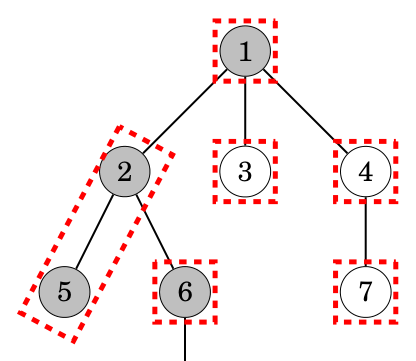
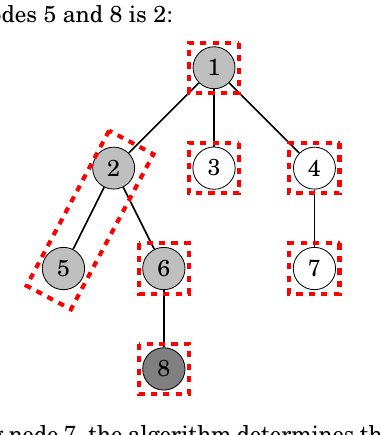
cp_handbook: fix LCA trees (p182) + Grundy state graphs (p249)
Six more figures were missing nodes or contained duplicates — same
root cause as previous rounds (PyMuPDF drawing-cluster merge radius
too small for figures with isolated nodes).

LCA offline-algorithm trees (ch18 §Offline algorithms, p182):
  fig_p182_088: was missing node 8 — now shows all 8 nodes, before
                algorithm starts
  fig_p182_089: was missing node 8 — now shows gray/dashed set
                visualisation with all 8 nodes
  fig_p182_090: was missing node 8 — now shows final LCA result
                with all 8 nodes

Grundy state graphs (ch25 §Sprague-Grundy theorem, p249):
  fig_p249_126 + fig_p249_127 were duplicate extractions of the same
  unlabeled state graph; both cropped cutting off nodes. Consolidated
  to a single fig_p249_126 ref showing the full 6-node graph, and
  dropped the 127 ref from the MD.
  fig_p249_128 (same graph with Grundy numbers 1, 0, 2, 0, 2 labeled)
  was re-cropped to show all 6 nodes; previously missing the
  leftmost labelled node.

All re-cropped using circle-aspect drawing bounds from PyMuPDF with
appropriate y-gap partitioning (gap=40 for LCA trees, explicit
y-ranges for Grundy since the state graph has 2 rows of 3 circles
tightly spaced). Build + static generation clean (109/109 pages).

https://claude.ai/code/session_015sQ9Nvm6fCoNg9PezLn4fC

diff --git a/content/competitive_programmers_handbook/competitive_programmers_handbook.md b/content/competitive_programmers_handbook/competitive_programmers_handbook.md
@@ -6900,13 +6900,11 @@ mex({$g_1, g_2,..., g_n$}),
 <!-- PAGE 249 -->
 where $g_1, g_2,..., g_n$ are the Grundy numbers of the states to which we can move, and the mex function gives the smallest nonnegative number that is not in the set. For example, mex({0,1,3}) $= 2$. If there are no possible moves in a state, its Grundy number is 0, because mex($;) =$ 0. For example, in the state graph
 
-![Figure from page 249](figures/fig_p249_126.png)
-
-![Figure from page 249](figures/fig_p249_127.png)
+![State graph example (unlabeled)](figures/fig_p249_126.png)
 
 the Grundy numbers are as follows:
 
-![Figure from page 249](figures/fig_p249_128.png)
+![Same state graph with Grundy numbers labeling each node](figures/fig_p249_128.png)
 
 The Grundy number of a losing state is 0, and the Grundy number of a winning state is a positive number. The Grundy number of a state corresponds to the number of sticks in a nim heap. If the Grundy number is 0, we can only move to states whose Grundy numbers are positive, and if the Grundy number is $x >$ 0, we can move to states whose Grundy numbers include all numbers 0,1,...,$x-1$. As an example, consider a game where the players move a figure in a maze. Each square in the maze is either floor or wall. On each turn, the player has to move the figure some number of steps left or up. The winner of the game is the player who makes the last move. The following picture shows a possible initial state of the game, where @ denotes the figure and * denotes a square where it can move.
 
